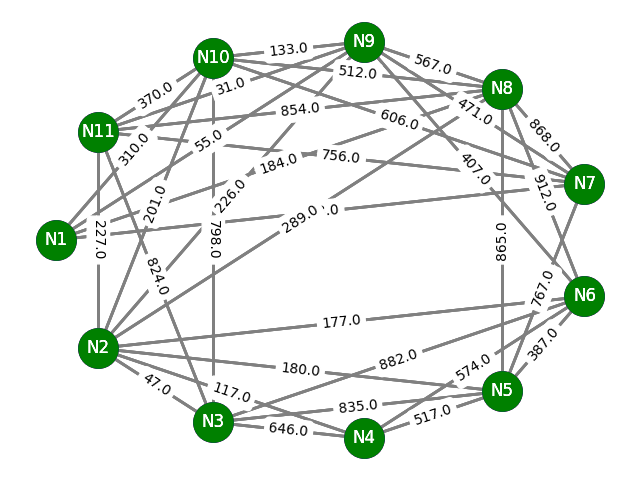
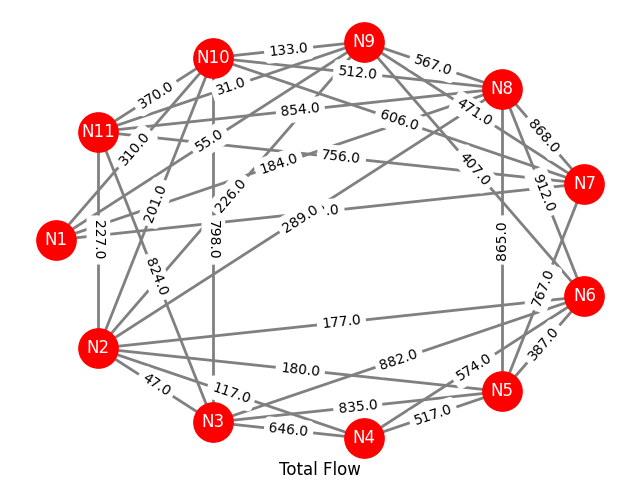
Updated transmission capacity

diff --git a/root.py b/root.py
@@ -11,9 +11,9 @@ def runner(topology):
     # Finding the shortest path and calculating total flow 
     demands_dict, graph =  find_shortest.find_shortest(demands_dict,graph)
     #prinitng and plotting graph data
-    printer.printGraph(graph)
+    status, graph = reroute.reroute(graph,demands_dict)
     printer.plotGraph(graph)
-    reroute.reroute(graph,demands_dict)
+    printer.printGraph(graph)
 
 def back():
     global my_label, myImage1, myImage2, myImage3,button_back,button_exit,button_forward
@@ -23,7 +23,6 @@ def back():
     prev_image-=1
     my_label = Label(outputFrame1,image=image_list[prev_image])
     button_forward = Button(outputFrame1,text = ">>", command=forward)
-    print(prev_image)
     if(prev_image>=1):
         button_back = Button(outputFrame1,text="<<", command= back)
     else:
@@ -55,9 +54,9 @@ def confirmButton():
     global my_label, myImage1, myImage2, myImage3,button_back,button_exit,button_forward
     global image_list, totalImages, current_image, next_image, prev_image
     runner(topology=str(clicked.get()))
-    myImage1= ImageTk.PhotoImage(Image.open("images/initialConfig.png"))
-    myImage2= ImageTk.PhotoImage(Image.open("images/totalFlow.png"))
-    myImage3= ImageTk.PhotoImage(Image.open("images/transmissionCapacityInitial.png"))
+    myImage1= ImageTk.PhotoImage(Image.open("images/totalFlow.png"))
+    myImage2= ImageTk.PhotoImage(Image.open("images/transmissionCapacityInitial.png"))
+    myImage3= ImageTk.PhotoImage(Image.open("images/transmissionCapacityFinal.png"))
     image_list = [myImage1,myImage2,myImage3]
     totalImages = len(image_list)
     current_image = 0

diff --git a/printer.py b/printer.py
@@ -15,19 +15,28 @@ def plotGraph(graph):
     edge_weights = {(u,v) : d["total_flow"] for u,v,d in graph.edges(data= True)}
     nx.draw_networkx_edge_labels(graph,pos,edge_weights, label_pos= 0.5)
     # plt.figure(figsize=(10,10))
-    plt.savefig("images/initialConfig.png")
+    plt.figtext(0.5, 0.01, "Total Flow", wrap=True, horizontalalignment='center', fontsize=12)
+
+    plt.savefig("images/totalFlow.png")
+    plt.figure().clear()
+
     nx.draw(graph,pos,with_labels = True, 
             node_color = "blue", font_color = "white", node_size = 800, 
             width = 2.0, edge_color = "grey")
+    edge_weights = {(u,v) : d["z_value"] for u,v,d in graph.edges(data= True)}    
     nx.draw_networkx_edge_labels(graph,pos,edge_weights, label_pos= 0.5)
+    plt.figtext(0.5, 0.01, "Transmission Capacity (Initial)", wrap=True, horizontalalignment='center', fontsize=12)
     plt.savefig("images/transmissionCapacityInitial.png")
+    plt.figure().clear()
     nx.draw(graph,pos,with_labels = True, 
             node_color = "green", font_color = "white", node_size = 800, 
             width = 2.0, edge_color = "grey")
-    edge_weights = {(u,v) : d["total_flow"] for u,v,d in graph.edges(data= True)}
+    
+    edge_weights = {(u,v) : d["updated_tranmission"] for u,v,d in graph.edges(data= True)}
     nx.draw_networkx_edge_labels(graph,pos,edge_weights, label_pos= 0.5)
-    plt.savefig("images/totalFlow.png")
-
+    plt.figtext(0.5, 0.01, "Transmission Capacity (Final)", wrap=True, horizontalalignment='center', fontsize=12)
+    plt.savefig("images/transmissionCapacityFinal.png")
+    plt.figure().clear()
 
     
 

diff --git a/reroute.py b/reroute.py
@@ -1,5 +1,5 @@
 import networkx as nx
-
+import find_shortest
 def find_new_D_set(graph, demands_dict,e_value):
     d_list = {}
     for key, demand_vector in demands_dict.items():
@@ -19,6 +19,7 @@ def reroute(graph, demands_dict):
         target  = v
         current_mod_cost = d['z_value']
         current_mod_cost_index = d['mod_cap'].index(current_mod_cost)
+        graph = find_shortest.findLower(graph)
         # if the lowest transmission capacity possible is the base transmission
         # then switch of the link and try to route
         if(current_mod_cost_index == 0):
@@ -49,4 +50,4 @@ def reroute(graph, demands_dict):
             #     kth_shortest_path = alt_paths[k - 1]
             # except IndexError:
             #     return None
-    return status
+    return status, graph

diff --git a/find_shortest.py b/find_shortest.py
@@ -66,6 +66,19 @@ def find_fst(start,end,graph):
             elif (u==end and v==start):
                 return -1
 
+def findLower(graph):
+    count = 0
+    for u,v,d in graph.edges(data = True):
+        current = d["z_value"]
+        modCaps = d["mod_cap"]
+        modIndex = modCaps.index(current)
+        if count%5==0 and modIndex-1>=0:
+            d["updated_tranmission"] = modCaps[modIndex-1]
+        else:
+            d["updated_tranmission"] = modCaps[modIndex]
+        count+=1
+    return graph
+
 def find_shortest(demands_dict, graph):
     with open("output.txt", "w") as f:
         with open("errors.txt", "w") as e:

diff --git a/interface.py b/interface.py
@@ -1,0 +1,13 @@
+def findLowerTransmission(demands_dict,graph):
+    count = 0
+    for u,v,d in graph.edges(data = True):
+        current = d["z_value"]
+        modCaps = d["mod_cap"]
+        modIndex = modCaps.find(current)
+        if count%5==0:
+            if(modIndex-1>0):
+                d["updated_tranmission"] = modCaps[modIndex-1]
+            else:
+                d["updated_tranmission"] = modCaps[modIndex]
+        count+=1
+
